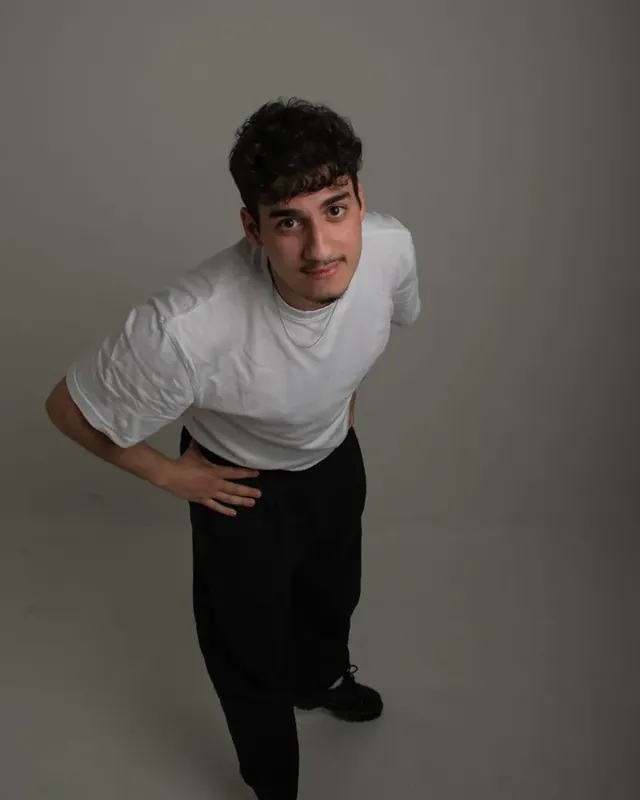
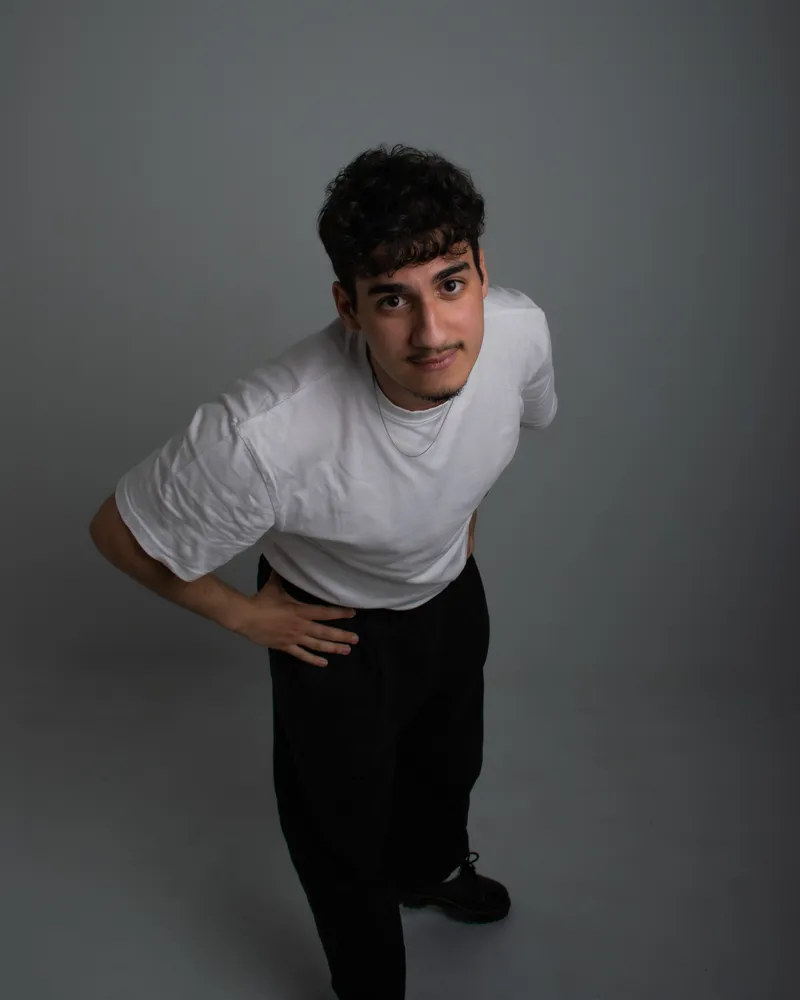
Use the new portrait and rotate between three hero photo sets on reload
The portrait always stays in the middle; the prints around it change, and
a reload never shows the same set twice in a row.

Claude-Session: https://claude.ai/code/session_01STMcLQNrmZbVnpCbPnasFF

diff --git a/script.js b/script.js
@@ -231,3 +231,44 @@ window.addEventListener("scroll", requestScroll, { passive: true });
 window.addEventListener("resize", requestScroll);
 if ("ResizeObserver" in window)
   new ResizeObserver(requestScroll).observe(document.body);
+
+// Hero: bei jedem Laden ein anderes Bilder-Set. Das Porträt bleibt immer in
+// der Mitte, nur die Abzüge rundherum wechseln. Ohne JavaScript bleibt Set 1.
+const heroSets = [
+  {
+    a: "img/fotografie/kuppel-klein.webp",
+    c: ["img/hero/aare.webp", "Aare, kurz vor sechs"],
+    d: "img/fotografie/torii-rot-klein.webp",
+  },
+  {
+    a: "img/fotografie/reiher-klein.webp",
+    c: ["img/fotografie/altstadt-wolken-klein.webp", "Münster im Wolkenmeer"],
+    d: "img/fotografie/torii-baum-klein.webp",
+  },
+  {
+    a: "img/fotografie/bruecke-mond-klein.webp",
+    c: ["img/fotografie/spaziergang-klein.webp", "Gemütlicher Spaziergang"],
+    d: "img/fotografie/koi-klein.webp",
+  },
+];
+const stack = document.querySelector(".photo-stack");
+if (stack) {
+  let last = -1;
+  try {
+    last = Number(localStorage.getItem("heroSet") ?? -1);
+  } catch (e) {}
+  const options = heroSets.map((_, i) => i).filter((i) => i !== last);
+  const pick = options[Math.floor(Math.random() * options.length)];
+  try {
+    localStorage.setItem("heroSet", String(pick));
+  } catch (e) {}
+  const set = heroSets[pick];
+  const imgA = stack.querySelector(".print-a img");
+  const imgC = stack.querySelector(".print-c img");
+  const capC = stack.querySelector(".print-c figcaption");
+  const imgD = stack.querySelector(".print-d img");
+  if (imgA) imgA.src = set.a;
+  if (imgC) imgC.src = set.c[0];
+  if (capC) capC.textContent = set.c[1];
+  if (imgD) imgD.src = set.d;
+}

diff --git a/index.html b/index.html
@@ -140,7 +140,7 @@
           >
             <figure class="print print-a" data-depth="10">
               <img
-                src="img/fotografie/altstadt-abendlicht-klein.webp"
+                src="img/fotografie/kuppel-klein.webp"
                 alt=""
                 width="900"
                 height="900"
@@ -150,10 +150,10 @@
               <img
                 src="img/hero/portrait.webp"
                 alt=""
-                width="640"
-                height="800"
+                width="800"
+                height="1000"
               />
-              <figcaption>das bin ich</figcaption>
+              <figcaption>Das bin ich</figcaption>
             </figure>
             <figure class="print print-c" data-depth="34">
               <img src="img/hero/aare.webp" alt="" width="640" height="800" />

diff --git a/styles.css b/styles.css
@@ -432,6 +432,9 @@ a {
 }
 .print-c figcaption {
   text-align: right;
+  /* Links liegt das Porträt darüber: längere Texte brechen davor um */
+  padding-left: 20%;
+  line-height: 1.2;
 }
 .print-a img,
 .print-d img {
@@ -518,6 +521,9 @@ a {
   }
   .print figcaption {
     font-size: 13px;
+  }
+  .print-c figcaption {
+    padding-left: 42%;
   }
 }
 @media (max-width: 480px) {
